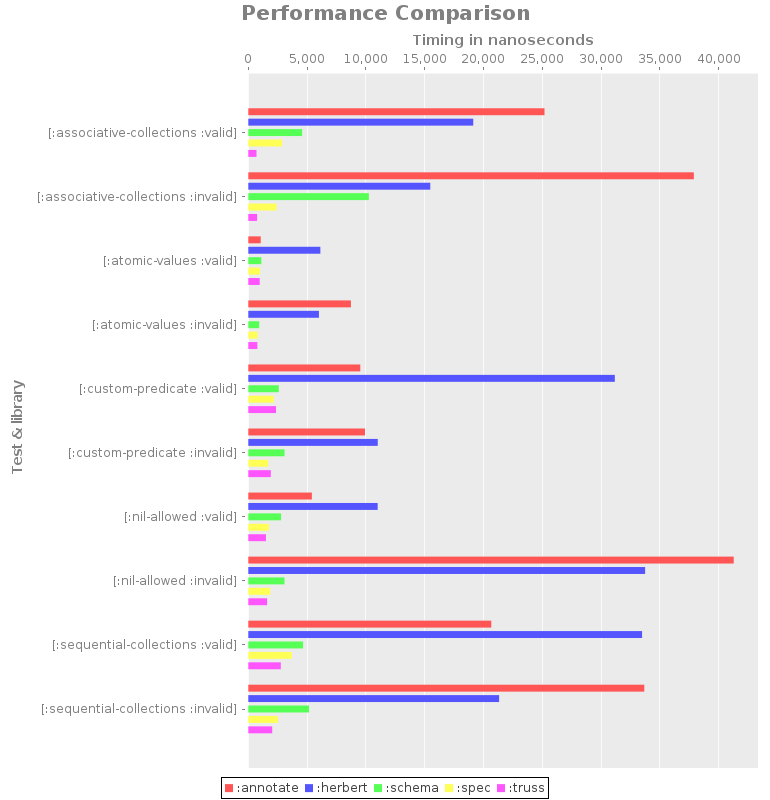
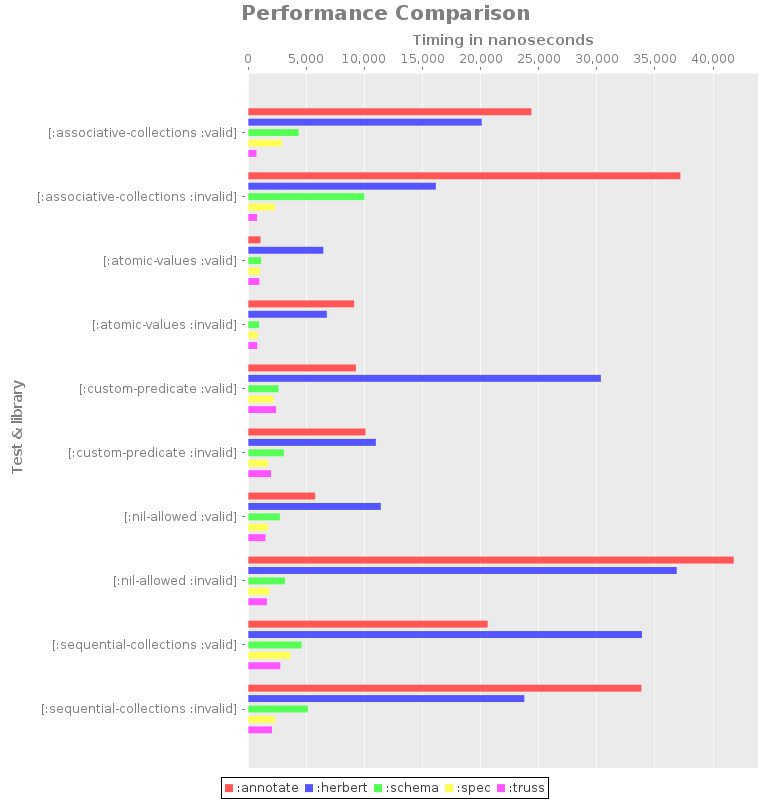
Deploy to GitHub Pages

diff --git a/index.html b/index.html
@@ -1,5 +1,5 @@
 <!DOCTYPE html>
-<html><head><link crossorigin="anonymous" href="https://maxcdn.bootstrapcdn.com/bootstrap/3.3.6/css/bootstrap.min.css" integrity="sha384-1q8mTJOASx8j1Au+a5WDVnPi2lkFfwwEAa8hDDdjZlpLegxhjVME1fgjWPGmkzs7" rel="stylesheet"><link crossorigin="anonymous" href="https://maxcdn.bootstrapcdn.com/bootstrap/3.3.6/css/bootstrap-theme.min.css" integrity="sha384-fLW2N01lMqjakBkx3l/M9EahuwpSfeNvV63J5ezn3uZzapT0u7EYsXMjQV+0En5r" rel="stylesheet"><script src="https://code.jquery.com/jquery-2.2.3.min.js"></script><script crossorigin="anonymous" integrity="sha384-0mSbJDEHialfmuBBQP6A4Qrprq5OVfW37PRR3j5ELqxss1yVqOtnepnHVP9aJ7xS" src="https://maxcdn.bootstrapcdn.com/bootstrap/3.3.6/js/bootstrap.min.js"></script></head><body data-spy="scroll" data-target="#navbar"><a href="https://github.com/muhuk/validation-benchmark"><img alt="Fork me on GitHub" data-canonical-src="https://s3.amazonaws.com/github/ribbons/forkme_right_gray_6d6d6d.png" src="https://camo.githubusercontent.com/a6677b08c955af8400f44c6298f40e7d19cc5b2d/68747470733a2f2f73332e616d617a6f6e6177732e636f6d2f6769746875622f726962626f6e732f666f726b6d655f72696768745f677261795f3664366436642e706e67" style="position: absolute; top: 0; right: 0; border: 0;"></a><div class="container"><div class="row" id="top"><div class="col-md-12"><div class="page-header"><h1>validation-benchmark <small>Updated at 2016-12-13</small></h1></div></div></div><div class="row"><div class="col-md-10"><div><h2 id="about">About</h2><p>Benchmark for Clojure validation libraries.</p><p><a href="https://github.com/muhuk/validation-benchmark">Source code</a></p><p>Following libraries are benchmarked:</p><ul><li><strong>annotate</strong> (<code>[com.roomkey/annotate "1.0.1"]</code>)</li><li><strong>herbert</strong> (<code>[com.velisco/herbert "0.7.0"]</code>)</li><li><strong>schema</strong> (<code>[prismatic/schema "1.1.3"]</code>)</li><li><strong>spec</strong> (<code>[org.clojure/clojure "1.9.0-alpha14"]</code>)</li><li><strong>truss</strong> (<code>[com.taoensso/truss "1.3.6"]</code>)</li></ul></div><div><h2 id="relative-performance-table">Relative performance table</h2><table class="table table-bordered table-hover"><tr><th>Test</th><th>annotate</th><th>herbert</th><th>schema</th><th>spec</th><th>truss</th></tr><tr><td><samp>[:associative-collections :invalid]</samp></td><td class="danger" title="Absolute timing is 37889 ns.">50.428</td><td class="danger" title="Absolute timing is 15476 ns.">20.598</td><td class="danger" title="Absolute timing is 10253 ns.">13.646</td><td class="danger" title="Absolute timing is 2408 ns.">3.205</td><td class="success" title="Absolute timing is 751 ns.">1.000</td></tr><tr><td><samp>[:associative-collections :valid]</samp></td><td class="danger" title="Absolute timing is 25190 ns.">36.218</td><td class="danger" title="Absolute timing is 19129 ns.">27.504</td><td class="danger" title="Absolute timing is 4578 ns.">6.582</td><td class="danger" title="Absolute timing is 2883 ns.">4.145</td><td class="success" title="Absolute timing is 696 ns.">1.000</td></tr><tr><td><samp>[:atomic-values :invalid]</samp></td><td class="danger" title="Absolute timing is 8728 ns.">11.306</td><td class="danger" title="Absolute timing is 6007 ns.">7.781</td><td class="warning" title="Absolute timing is 930 ns.">1.205</td><td class="success" title="Absolute timing is 788 ns.">1.021</td><td class="success" title="Absolute timing is 772 ns.">1.000</td></tr><tr><td><samp>[:atomic-values :valid]</samp></td><td class="warning" title="Absolute timing is 1058 ns.">1.087</td><td class="danger" title="Absolute timing is 6128 ns.">6.300</td><td class="warning" title="Absolute timing is 1109 ns.">1.140</td><td class="success" title="Absolute timing is 997 ns.">1.025</td><td class="success" title="Absolute timing is 973 ns.">1.000</td></tr><tr><td><samp>[:custom-predicate :invalid]</samp></td><td class="danger" title="Absolute timing is 9925 ns.">5.879</td><td class="danger" title="Absolute timing is 11010 ns.">6.521</td><td class="warning" title="Absolute timing is 3083 ns.">1.826</td><td class="success" title="Absolute timing is 1688 ns.">1.000</td><td class="warning" title="Absolute timing is 1915 ns.">1.134</td></tr><tr><td><samp>[:custom-predicate :valid]</samp></td><td class="danger" title="Absolute timing is 9525 ns.">4.401</td><td class="danger" title="Absolute timing is 31169 ns.">14.401</td><td class="warning" title="Absolute timing is 2592 ns.">1.198</td><td class="success" title="Absolute timing is 2164 ns.">1.000</td><td class="warning" title="Absolute timing is 2361 ns.">1.091</td></tr><tr><td><samp>[:nil-allowed :invalid]</samp></td><td class="danger" title="Absolute timing is 41280 ns.">25.787</td><td class="danger" title="Absolute timing is 33746 ns.">21.081</td><td class="warning" title="Absolute timing is 3079 ns.">1.924</td><td class="warning" title="Absolute timing is 1861 ns.">1.163</td><td class="success" title="Absolute timing is 1601 ns.">1.000</td></tr><tr><td><samp>[:nil-allowed :valid]</samp></td><td class="danger" title="Absolute timing is 5407 ns.">3.603</td><td class="danger" title="Absolute timing is 11003 ns.">7.332</td><td class="warning" title="Absolute timing is 2789 ns.">1.858</td><td class="warning" title="Absolute timing is 1746 ns.">1.163</td><td class="success" title="Absolute timing is 1501 ns.">1.000</td></tr><tr><td><samp>[:sequential-collections :invalid]</samp></td><td class="danger" title="Absolute timing is 33674 ns.">16.550</td><td class="danger" title="Absolute timing is 21330 ns.">10.483</td><td class="warning" title="Absolute timing is 5164 ns.">2.538</td><td class="warning" title="Absolute timing is 2513 ns.">1.235</td><td class="success" title="Absolute timing is 2035 ns.">1.000</td></tr><tr><td><samp>[:sequential-collections :valid]</samp></td><td class="danger" title="Absolute timing is 20661 ns.">7.478</td><td class="danger" title="Absolute timing is 33486 ns.">12.119</td><td class="warning" title="Absolute timing is 4661 ns.">1.687</td><td class="warning" title="Absolute timing is 3694 ns.">1.337</td><td class="success" title="Absolute timing is 2763 ns.">1.000</td></tr></table></div><div><h2 id="performance-graph">Performance Graph</h2><img src="chart.png"></div></div><div class="col-md-2" id="navbar"><ul class="nav nav-pills nav-stacked" data-spy="affix"><li><a href="#top"><span class="glyphicon glyphicon-triangle-top"></span> Top</a></li><li><a href="#about"><span class="glyphicon glyphicon-triangle-right"></span> About</a></li><li><a href="#relative-performance-table"><span class="glyphicon glyphicon-triangle-right"></span> Relative performance table</a></li><li><a href="#performance-graph"><span class="glyphicon glyphicon-triangle-right"></span> Performance Graph</a></li></ul></div></div><div class="row"><div class="col-md-10" style="margin-bottom: 6em;">&nbsp;</div></div><script>
+<html><head><link crossorigin="anonymous" href="https://maxcdn.bootstrapcdn.com/bootstrap/3.3.6/css/bootstrap.min.css" integrity="sha384-1q8mTJOASx8j1Au+a5WDVnPi2lkFfwwEAa8hDDdjZlpLegxhjVME1fgjWPGmkzs7" rel="stylesheet"><link crossorigin="anonymous" href="https://maxcdn.bootstrapcdn.com/bootstrap/3.3.6/css/bootstrap-theme.min.css" integrity="sha384-fLW2N01lMqjakBkx3l/M9EahuwpSfeNvV63J5ezn3uZzapT0u7EYsXMjQV+0En5r" rel="stylesheet"><script src="https://code.jquery.com/jquery-2.2.3.min.js"></script><script crossorigin="anonymous" integrity="sha384-0mSbJDEHialfmuBBQP6A4Qrprq5OVfW37PRR3j5ELqxss1yVqOtnepnHVP9aJ7xS" src="https://maxcdn.bootstrapcdn.com/bootstrap/3.3.6/js/bootstrap.min.js"></script></head><body data-spy="scroll" data-target="#navbar"><a href="https://github.com/muhuk/validation-benchmark"><img alt="Fork me on GitHub" data-canonical-src="https://s3.amazonaws.com/github/ribbons/forkme_right_gray_6d6d6d.png" src="https://camo.githubusercontent.com/a6677b08c955af8400f44c6298f40e7d19cc5b2d/68747470733a2f2f73332e616d617a6f6e6177732e636f6d2f6769746875622f726962626f6e732f666f726b6d655f72696768745f677261795f3664366436642e706e67" style="position: absolute; top: 0; right: 0; border: 0;"></a><div class="container"><div class="row" id="top"><div class="col-md-12"><div class="page-header"><h1>validation-benchmark <small>Updated at 2017-04-07</small></h1></div></div></div><div class="row"><div class="col-md-10"><div><h2 id="about">About</h2><p>Benchmark for Clojure validation libraries.</p><p><a href="https://github.com/muhuk/validation-benchmark">Source code</a></p><p>Following libraries are benchmarked:</p><ul><li><strong>annotate</strong> (<code>[com.roomkey/annotate "1.0.1"]</code>)</li><li><strong>herbert</strong> (<code>[com.velisco/herbert "0.7.0"]</code>)</li><li><strong>schema</strong> (<code>[prismatic/schema "1.1.5"]</code>)</li><li><strong>spec</strong> (<code>[org.clojure/clojure "1.9.0-alpha15"]</code>)</li><li><strong>truss</strong> (<code>[com.taoensso/truss "1.4.0"]</code>)</li></ul></div><div><h2 id="relative-performance-table">Relative performance table</h2><table class="table table-bordered table-hover"><tr><th>Test</th><th>annotate</th><th>herbert</th><th>schema</th><th>spec</th><th>truss</th></tr><tr><td><samp>[:associative-collections :invalid]</samp></td><td class="danger" title="Absolute timing is 37183 ns.">48.957</td><td class="danger" title="Absolute timing is 16142 ns.">21.254</td><td class="danger" title="Absolute timing is 9992 ns.">13.156</td><td class="danger" title="Absolute timing is 2296 ns.">3.023</td><td class="success" title="Absolute timing is 759 ns.">1.000</td></tr><tr><td><samp>[:associative-collections :valid]</samp></td><td class="danger" title="Absolute timing is 24367 ns.">34.815</td><td class="danger" title="Absolute timing is 20090 ns.">28.704</td><td class="danger" title="Absolute timing is 4334 ns.">6.192</td><td class="danger" title="Absolute timing is 2885 ns.">4.122</td><td class="success" title="Absolute timing is 700 ns.">1.000</td></tr><tr><td><samp>[:atomic-values :invalid]</samp></td><td class="danger" title="Absolute timing is 9108 ns.">11.877</td><td class="danger" title="Absolute timing is 6759 ns.">8.815</td><td class="warning" title="Absolute timing is 929 ns.">1.211</td><td class="success" title="Absolute timing is 797 ns.">1.039</td><td class="success" title="Absolute timing is 767 ns.">1.000</td></tr><tr><td><samp>[:atomic-values :valid]</samp></td><td class="warning" title="Absolute timing is 1052 ns.">1.099</td><td class="danger" title="Absolute timing is 6457 ns.">6.748</td><td class="warning" title="Absolute timing is 1106 ns.">1.155</td><td class="warning" title="Absolute timing is 1012 ns.">1.058</td><td class="success" title="Absolute timing is 957 ns.">1.000</td></tr><tr><td><samp>[:custom-predicate :invalid]</samp></td><td class="danger" title="Absolute timing is 10085 ns.">5.968</td><td class="danger" title="Absolute timing is 10979 ns.">6.497</td><td class="warning" title="Absolute timing is 3061 ns.">1.811</td><td class="success" title="Absolute timing is 1690 ns.">1.000</td><td class="warning" title="Absolute timing is 1954 ns.">1.156</td></tr><tr><td><samp>[:custom-predicate :valid]</samp></td><td class="danger" title="Absolute timing is 9260 ns.">4.282</td><td class="danger" title="Absolute timing is 30345 ns.">14.031</td><td class="warning" title="Absolute timing is 2599 ns.">1.202</td><td class="success" title="Absolute timing is 2163 ns.">1.000</td><td class="warning" title="Absolute timing is 2395 ns.">1.107</td></tr><tr><td><samp>[:nil-allowed :invalid]</samp></td><td class="danger" title="Absolute timing is 41779 ns.">26.090</td><td class="danger" title="Absolute timing is 36874 ns.">23.027</td><td class="warning" title="Absolute timing is 3158 ns.">1.972</td><td class="warning" title="Absolute timing is 1807 ns.">1.129</td><td class="success" title="Absolute timing is 1601 ns.">1.000</td></tr><tr><td><samp>[:nil-allowed :valid]</samp></td><td class="danger" title="Absolute timing is 5749 ns.">3.873</td><td class="danger" title="Absolute timing is 11408 ns.">7.684</td><td class="warning" title="Absolute timing is 2717 ns.">1.830</td><td class="warning" title="Absolute timing is 1689 ns.">1.138</td><td class="success" title="Absolute timing is 1485 ns.">1.000</td></tr><tr><td><samp>[:sequential-collections :invalid]</samp></td><td class="danger" title="Absolute timing is 33827 ns.">16.596</td><td class="danger" title="Absolute timing is 23754 ns.">11.654</td><td class="warning" title="Absolute timing is 5128 ns.">2.516</td><td class="warning" title="Absolute timing is 2282 ns.">1.119</td><td class="success" title="Absolute timing is 2038 ns.">1.000</td></tr><tr><td><samp>[:sequential-collections :valid]</samp></td><td class="danger" title="Absolute timing is 20600 ns.">7.487</td><td class="danger" title="Absolute timing is 33882 ns.">12.314</td><td class="warning" title="Absolute timing is 4589 ns.">1.668</td><td class="warning" title="Absolute timing is 3607 ns.">1.311</td><td class="success" title="Absolute timing is 2751 ns.">1.000</td></tr></table></div><div><h2 id="performance-graph">Performance Graph</h2><img src="chart.png"></div></div><div class="col-md-2" id="navbar"><ul class="nav nav-pills nav-stacked" data-spy="affix"><li><a href="#top"><span class="glyphicon glyphicon-triangle-top"></span> Top</a></li><li><a href="#about"><span class="glyphicon glyphicon-triangle-right"></span> About</a></li><li><a href="#relative-performance-table"><span class="glyphicon glyphicon-triangle-right"></span> Relative performance table</a></li><li><a href="#performance-graph"><span class="glyphicon glyphicon-triangle-right"></span> Performance Graph</a></li></ul></div></div><div class="row"><div class="col-md-10" style="margin-bottom: 6em;">&nbsp;</div></div><script>
   (function(i,s,o,g,r,a,m){i['GoogleAnalyticsObject']=r;i[r]=i[r]||function(){
   (i[r].q=i[r].q||[]).push(arguments)},i[r].l=1*new Date();a=s.createElement(o),
   m=s.getElementsByTagName(o)[0];a.async=1;a.src=g;m.parentNode.insertBefore(a,m)
